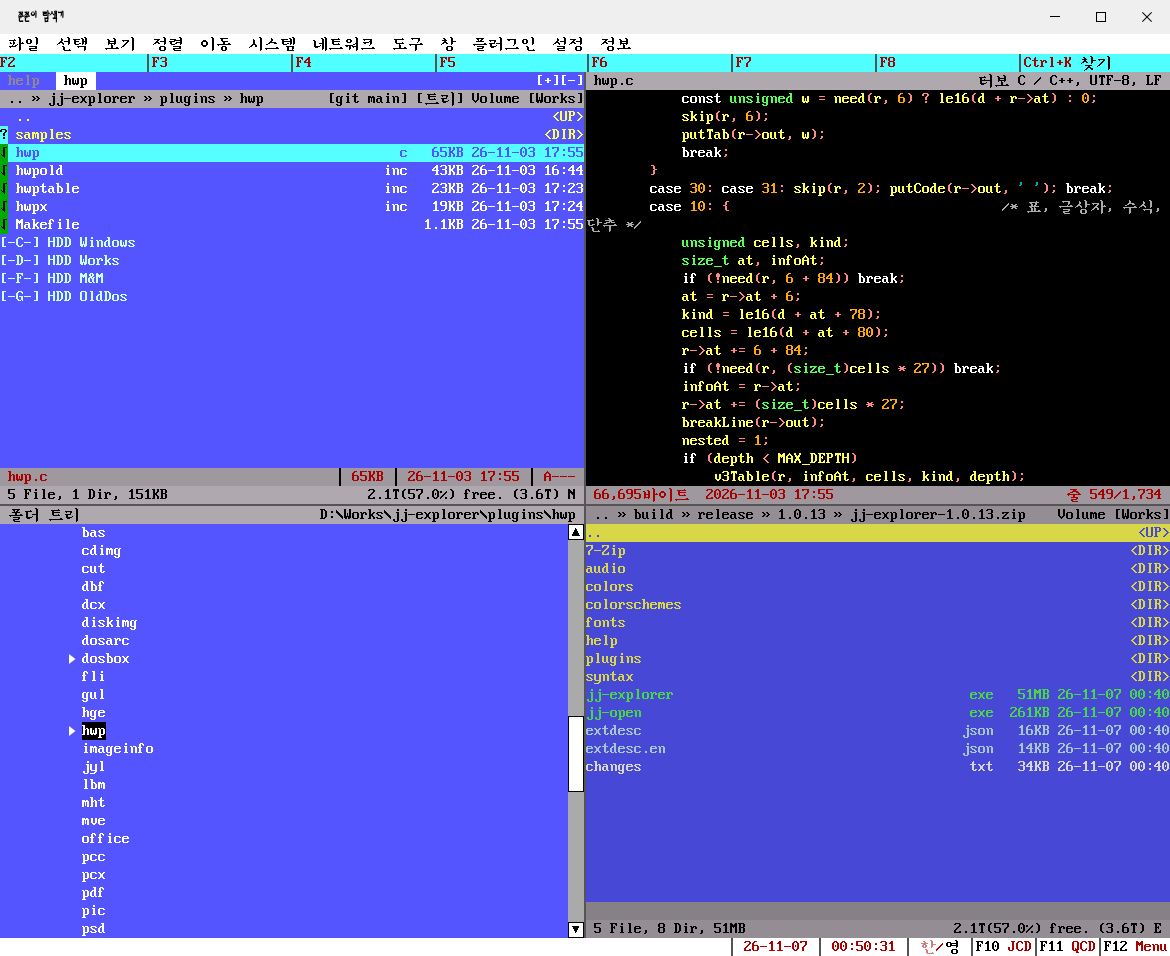
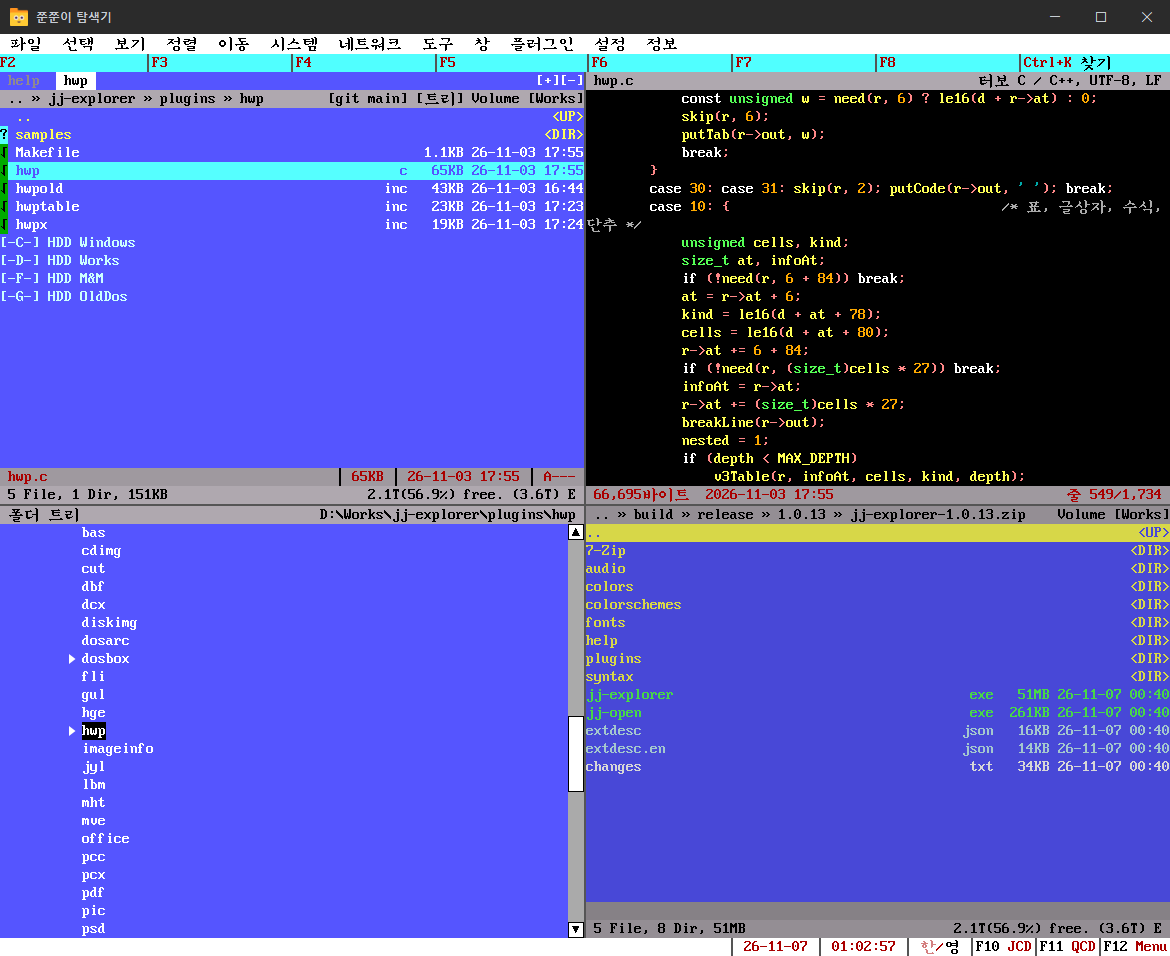
README: dark screenshot and feature screenshots

Changed region(s): [[0.0, 0.0, 1.0, 0.0607], [0.0, 0.1517, 0.5231, 0.2427]]

diff --git a/README.md b/README.md
@@ -64,6 +64,22 @@ The program and its manual are available in Korean and English. Choose the langu
 - 13 dialog styles: Windows 3.1, 95, 98 and 2000, OS/2 Warp, Mac OS 8, Motif, NeXTSTEP, BeOS, Turbo Vision, GeoWorks Ensemble, light and dark
 - Color files, including Norton Utilities, classic Korean DOS tools and Sublime Text color schemes
 
+## Screenshots
+
+**Command palette (Ctrl+K).** Type part of a name, or Korean initial sounds, to find any command with its menu and shortcut key.
+
+![Command palette listing the photo tools for the search word 사진](screenshots/command-palette.png)
+
+**Folder size treemap.** Each rectangle is sized by the space a file or folder takes. Click a folder to go inside.
+
+![Treemap of the program folder: plugins, the program file, audio, help and fonts](screenshots/treemap.png)
+
+**Dialog styles and color files.** The same screen in the Windows 95 style with the windows95 color file, and in the Turbo Vision style with the turbovision color file. Quick View follows the panel colors, like the Turbo C editor.
+
+![The main window in the Windows 95 style](screenshots/style-windows95.png)
+
+![The main window in the Turbo Vision style](screenshots/style-turbovision.png)
+
 ## Requirements
 
 - Windows 10 (version 1809 or later) or Windows 11, 64-bit
